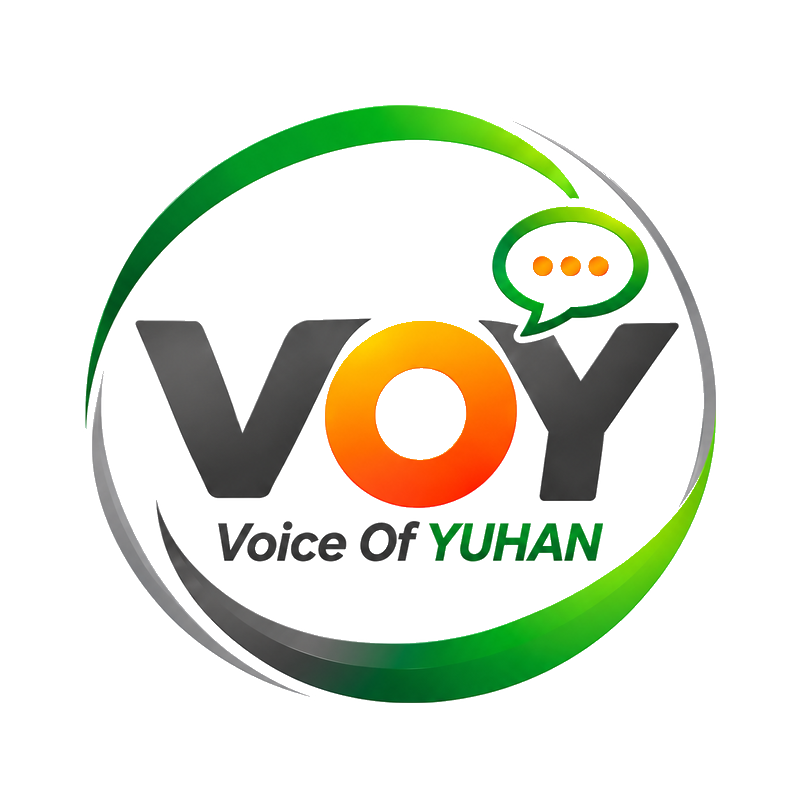
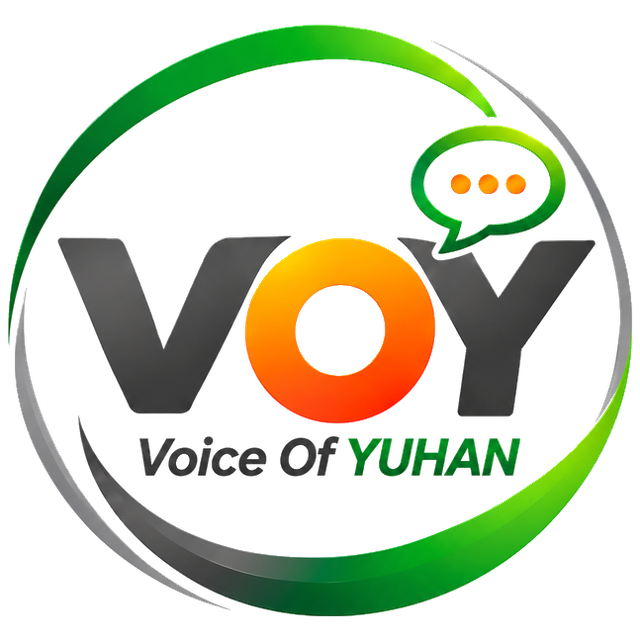
Add files via upload

diff --git a/index.html b/index.html
@@ -452,7 +452,7 @@ body:has(.cbox-wrap) .theme-fab,body:has(.policy) .theme-fab{display:none}
 .auth-hero{text-align:center;margin-bottom:22px}
 /* 시작 화면: VOY 로고가 작게 시작해 다가오듯 커짐 */
 .boot-splash{min-height:100vh;min-height:100dvh;display:flex;flex-direction:column;align-items:center;justify-content:center;gap:18px}
-.boot-splash img{width:min(600px,92vw,70vh);height:min(600px,92vw,70vh);border-radius:22%;box-shadow:0 14px 40px rgba(0,0,0,.14);animation:bootZoom 2.1s cubic-bezier(.22,.8,.25,1.08) both,bootBreath 2.4s ease-in-out 2.1s infinite}
+.boot-splash img{width:min(600px,92vw,70vh);height:min(600px,92vw,70vh);border-radius:50%;background:#fff;box-shadow:0 14px 44px rgba(0,0,0,.16);animation:bootZoom 2.1s cubic-bezier(.22,.8,.25,1.08) both,bootBreath 2.4s ease-in-out 2.1s infinite}
 .boot-splash p{color:var(--muted);font-size:14px;animation:bootFade .6s ease 1.5s both}
 @keyframes bootZoom{0%{transform:scale(.14);opacity:0;filter:blur(4px)}35%{opacity:1;filter:blur(0)}100%{transform:scale(1)}}
 @keyframes bootBreath{50%{transform:scale(1.04)}}
@@ -1931,7 +1931,7 @@ function installGuide(title, steps, note) {
     <div class="modal-foot"><button class="btn primary block" data-close>확인</button></div>`);
 }
 
-const SPLASH = '<div class="boot-splash"><img src="icons/voy-512.png?v=4" alt="VOY™"><p>불러오는 중…</p></div>';
+const SPLASH = '<div class="boot-splash"><img src="icons/voy-mark.png?v=2" alt="VOY™"><p>불러오는 중…</p></div>';
 async function boot() {
   mountThemeToggle();
   root.innerHTML = SPLASH;
@@ -2008,7 +2008,7 @@ function shell(inner, tab, fab = true) {
   const me = S.me; document.body.classList.add('has-bnav');
   root.innerHTML = `<div class="app">
     <header class="top"><div class="top-row">
-      <div class="brand" data-act="home"><img class="logo-img" src="icons/voy-mark.png?v=1" alt="VOY"><div class="brand-txt"><small>Voice of</small><b>YUHAN</b></div></div>
+      <div class="brand" data-act="home"><img class="logo-img" src="icons/voy-mark.png?v=2" alt="VOY"><div class="brand-txt"><small>Voice of</small><b>YUHAN</b></div></div>
       <div class="top-pill" title="${monthLabel(curMonth())} 이달의 닉네임"><span class="tp-m">${monthLabel(curMonth(), true)}의</span><b>${esc(me.nickname)}</b></div>
       <button class="avatar sm" style="background:${avColor(me.nickname)}" data-act="go" data-to="#/me" aria-label="내 정보">${esc(me.nickname[0])}</button></div>
       <nav class="ql-strip" id="qlStrip" aria-label="바로가기">${QL.stripHTML()}</nav>
@@ -2656,7 +2656,7 @@ async function renderAuth() {
       <div class="err-msg" id="aerr"></div>
       <button class="btn primary block" id="asub">로그인</button>
       <p class="hint" style="text-align:center;margin-top:12px">로그인 후 <b>VOY™ 웹앱</b>에서 열립니다.<br>비밀번호를 잊으셨다면 영업기획팀에 초기화를 요청해주세요.</p>
-      <p class="ver-tag">v261111.1111</p>
+      <p class="ver-tag">v261111.1128</p>
     </form>
     ${LOCAL ? `<p class="demo-flag" style="margin-top:14px">데모 모드 · Supabase 연결 전 미리보기입니다.<br>회원: <b>demo / demo1234</b> · 최고관리자: <b>admin / admin1234</b></p>` : ''}
   </div></div>`;
